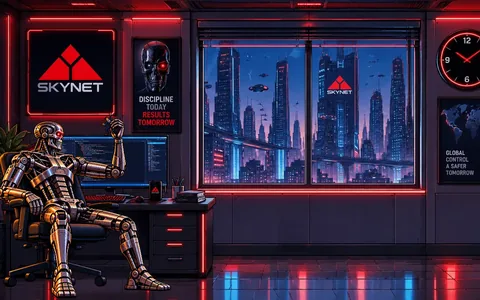
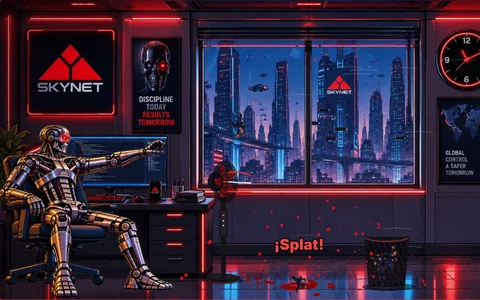
¡Al cesto!: portada nueva con una escena del juego (T-800 tirando, ventilador, tacho y sangre)
Claude-Session: https://claude.ai/code/session_01GrU9pzeWRAGCctpoyXG1PC

diff --git a/src/features/games/Games.tsx b/src/features/games/Games.tsx
@@ -147,7 +147,8 @@ function LavaArt() {
   </svg>;
 }
 
-// Portada de ¡Al cesto!: la oficina de Skynet con el T-800 sentado, con un humano en miniatura en la mano.
+// Portada de ¡Al cesto!: una imagen del juego, con el T-800 tirando un humano en miniatura al tacho, el
+// ventilador soplando y uno que cayó afuera.
 function PaperArt() {
   return <svg viewBox="0 0 160 100" aria-hidden="true">
     <image href={terminatorCover} x="0" y="0" width="160" height="100" preserveAspectRatio="xMidYMid slice" />
